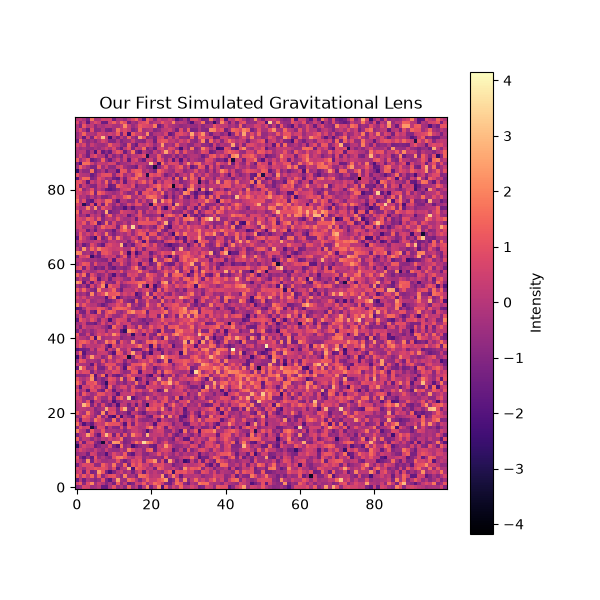
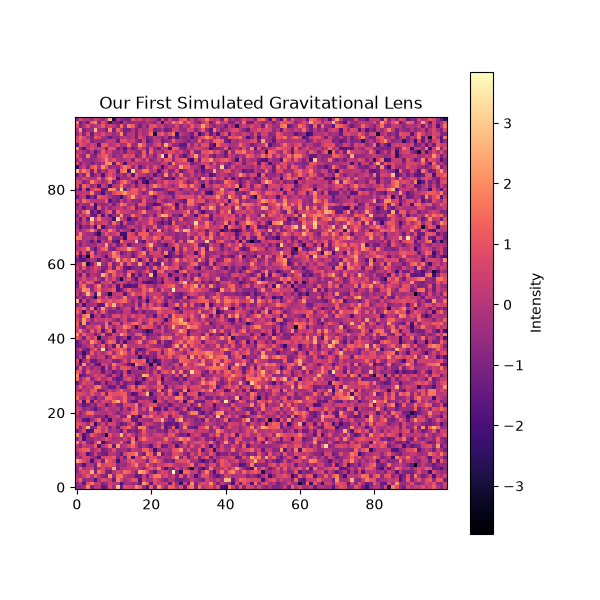
feat: add visualization plot tool for raw data inspection

diff --git a/main.py b/main.py
@@ -1,62 +1,53 @@
+import os
 import numpy as np
 import matplotlib.pyplot as plt
-from lenstronomy.LensModel.lens_model import LensModel
-from lenstronomy.LightModel.light_model import LightModel
-from lenstronomy.Data.pixel_grid import PixelGrid
-from lenstronomy.Data.psf import PSF  # <-- 1. ADD THIS IMPORT
-from lenstronomy.ImSim.image_model import ImageModel
 
 
-def simulate_first_lens():
-    print("🌌 Starting Strong Lens Simulation...")
+def plot_simulated_lenses(num_to_display=4):
+    """Loads the generated dataset from data/raw/ and displays a grid of lens images."""
+    images_path = os.path.join('data', 'raw', 'lens_images.npy')
+    params_path = os.path.join('data', 'raw', 'lens_params.npy')
 
-    # 1. Define the Coordinate Grid (Our Camera Sensor)
-    num_pix = 100
-    delta_pix = 0.05
+    # 1. Check if the dataset files actually exist
+    if not os.path.exists(images_path) or not os.path.exists(params_path):
+        print("❌ Error: Dataset files not found. Run main.py first to generate data!")
+        return
 
-    kwargs_grid = {
-        'nx': num_pix, 'ny': num_pix,
-        'transform_pix2angle': np.array([[delta_pix, 0], [0, delta_pix]]),
-        'ra_at_xy_0': -(num_pix * delta_pix) / 2.0,
-        'dec_at_xy_0': -(num_pix * delta_pix) / 2.0
-    }
-    pixel_grid = PixelGrid(**kwargs_grid)
+    # 2. Load the arrays
+    images = np.load(images_path)
+    params = np.load(params_path)
 
-    # 2. Define an Empty PSF object (Fixes the AttributeError)
-    psf_class = PSF(psf_type='NONE')  # <-- 2. INITIALIZE CORECTLY HERE
+    print(f"📊 Loaded {len(images)} images for visualization.")
 
-    # 3. Define the Lens Model (The Foreground Mass / Galaxy)
-    lens_model_list = ['SIS']
-    lens_model = LensModel(lens_model_list=lens_model_list)
-    kwargs_lens = [{'theta_E': 1.2, 'center_x': 0.0, 'center_y': 0.0}]
+    # 3. Create a clean grid layout
+    fig, axes = plt.subplots(1, num_to_display, figsize=(4 * num_to_display, 4))
 
-    # 4. Define the Source Light Model (The Background Galaxy)
-    source_model_list = ['SERSIC']
-    source_light_model = LightModel(light_model_list=source_model_list)
-    kwargs_source = [{'amp': 100, 'R_sersic': 0.2, 'n_sersic': 1, 'center_x': 0.1, 'center_y': 0.1}]
+    # Handle the edge case where we only display 1 image
+    if num_to_display == 1:
+        axes = [axes]
 
-    # 5. Combine them into an Image Model simulator
-    # We pass our new psf_class instance here instead of None
-    image_model = ImageModel(data_class=pixel_grid, psf_class=psf_class,
-                             lens_model_class=lens_model, source_model_class=source_light_model)
+    for i in range(num_to_display):
+        # Grab individual parameters for the title
+        theta_E, center_x, center_y = params[i]
 
-    # 6. Generate the simulated lens image
-    image = image_model.image(kwargs_lens=kwargs_lens, kwargs_source=kwargs_source)
+        # Plot the matrix heatmap
+        im = axes[i].imshow(images[i], origin='lower', cmap='magma')
+        axes[i].set_title(f"Lens #{i + 1}\n$\\theta_E$: {theta_E:.2f} | X: {center_x:.2f}")
+        axes[i].axis('off')
 
-    # 7. Add some realistic cosmic background noise
-    noise = np.random.normal(loc=0, scale=1.0, size=image.shape)
-    image_with_noise = image + noise
+    # Add a global color bar to show pixel intensity scale
+    fig.subplots_adjust(right=0.85)
+    cbar_ax = fig.add_axes([0.88, 0.15, 0.02, 0.7])
+    fig.colorbar(im, cax=cbar_ax, label="Intensity")
 
-    # 8. Plot the Result!
-    plt.figure(figsize=(6, 6))
-    plt.imshow(image_with_noise, origin='lower', cmap='magma')
-    plt.title("Our First Simulated Gravitational Lens")
-    plt.colorbar(label="Intensity")
+    # Save a copy to your figures directory
+    os.makedirs('figures', exist_ok=True)
+    plt.savefig('figures/dataset_preview.png', bbox_inches='tight')
+    print("🎨 Preview grid saved to figures/dataset_preview.png")
 
-    plt.savefig('figures/my_first_lens.png')
-    print("✅ Success! Image saved to figures/my_first_lens.png")
+    # Show the pop-up window
     plt.show()
 
 
 if __name__ == "__main__":
-    simulate_first_lens()
+    plot_simulated_lenses(num_to_display=4)

diff --git a/src/simulator/lens_generator.py b/src/simulator/lens_generator.py
@@ -1,0 +1,32 @@
+import numpy as np
+from lenstronomy.LensModel.lens_model import LensModel
+from lenstronomy.LightModel.light_model import LightModel
+from lenstronomy.Data.pixel_grid import PixelGrid
+from lenstronomy.Data.psf import PSF
+from lenstronomy.ImSim.image_model import ImageModel
+
+
+def setup_image_model(num_pix=64, delta_pix=0.08):
+    """Initializes the core physics simulators for lenstronomy."""
+    kwargs_grid = {
+        'nx': num_pix, 'ny': num_pix,
+        'transform_pix2angle': np.array([[delta_pix, 0], [0, delta_pix]]),
+        'ra_at_xy_0': -(num_pix * delta_pix) / 2.0,
+        'dec_at_xy_0': -(num_pix * delta_pix) / 2.0
+    }
+    pixel_grid = PixelGrid(**kwargs_grid)
+    psf_class = PSF(psf_type='NONE')
+
+    lens_model = LensModel(lens_model_list=['SIS'])
+    source_light_model = LightModel(light_model_list=['SERSIC'])
+
+    return ImageModel(data_class=pixel_grid, psf_class=psf_class,
+                      lens_model_class=lens_model, source_model_class=source_light_model)
+
+
+def simulate_single_lens(image_model, theta_E, center_x, center_y):
+    """Generates a clean warped cosmic image given specific parameters."""
+    kwargs_lens = [{'theta_E': theta_E, 'center_x': 0.0, 'center_y': 0.0}]
+    kwargs_source = [{'amp': 200, 'R_sersic': 0.15, 'n_sersic': 1, 'center_x': center_x, 'center_y': center_y}]
+
+    return image_model.image(kwargs_lens=kwargs_lens, kwargs_source=kwargs_source)

diff --git a/src/simulator/parameters.py b/src/simulator/parameters.py
@@ -1,0 +1,14 @@
+import numpy as np
+
+
+def sample_priors(num_samples=100):
+    """Samples random physical configurations for the lenses (Prior Distribution)."""
+    # Einstein radius: how massive/heavy the foreground galaxy is
+    theta_E = np.random.uniform(0.6, 1.8, num_samples)
+
+    # Background galaxy offset positions relative to center
+    center_x = np.random.uniform(-0.2, 0.2, num_samples)
+    center_y = np.random.uniform(-0.2, 0.2, num_samples)
+
+    # Pack them as rows of parameters: Shape (num_samples, 3)
+    return np.column_stack((theta_E, center_x, center_y))

diff --git a/src/simulator/noise.py b/src/simulator/noise.py
@@ -1,0 +1,6 @@
+import numpy as np
+
+def add_cosmic_noise(clean_image, scale=1.5):
+    """Adds standard Gaussian background noise to a simulated image."""
+    noise = np.random.normal(loc=0, scale=scale, size=clean_image.shape)
+    return clean_image + noise